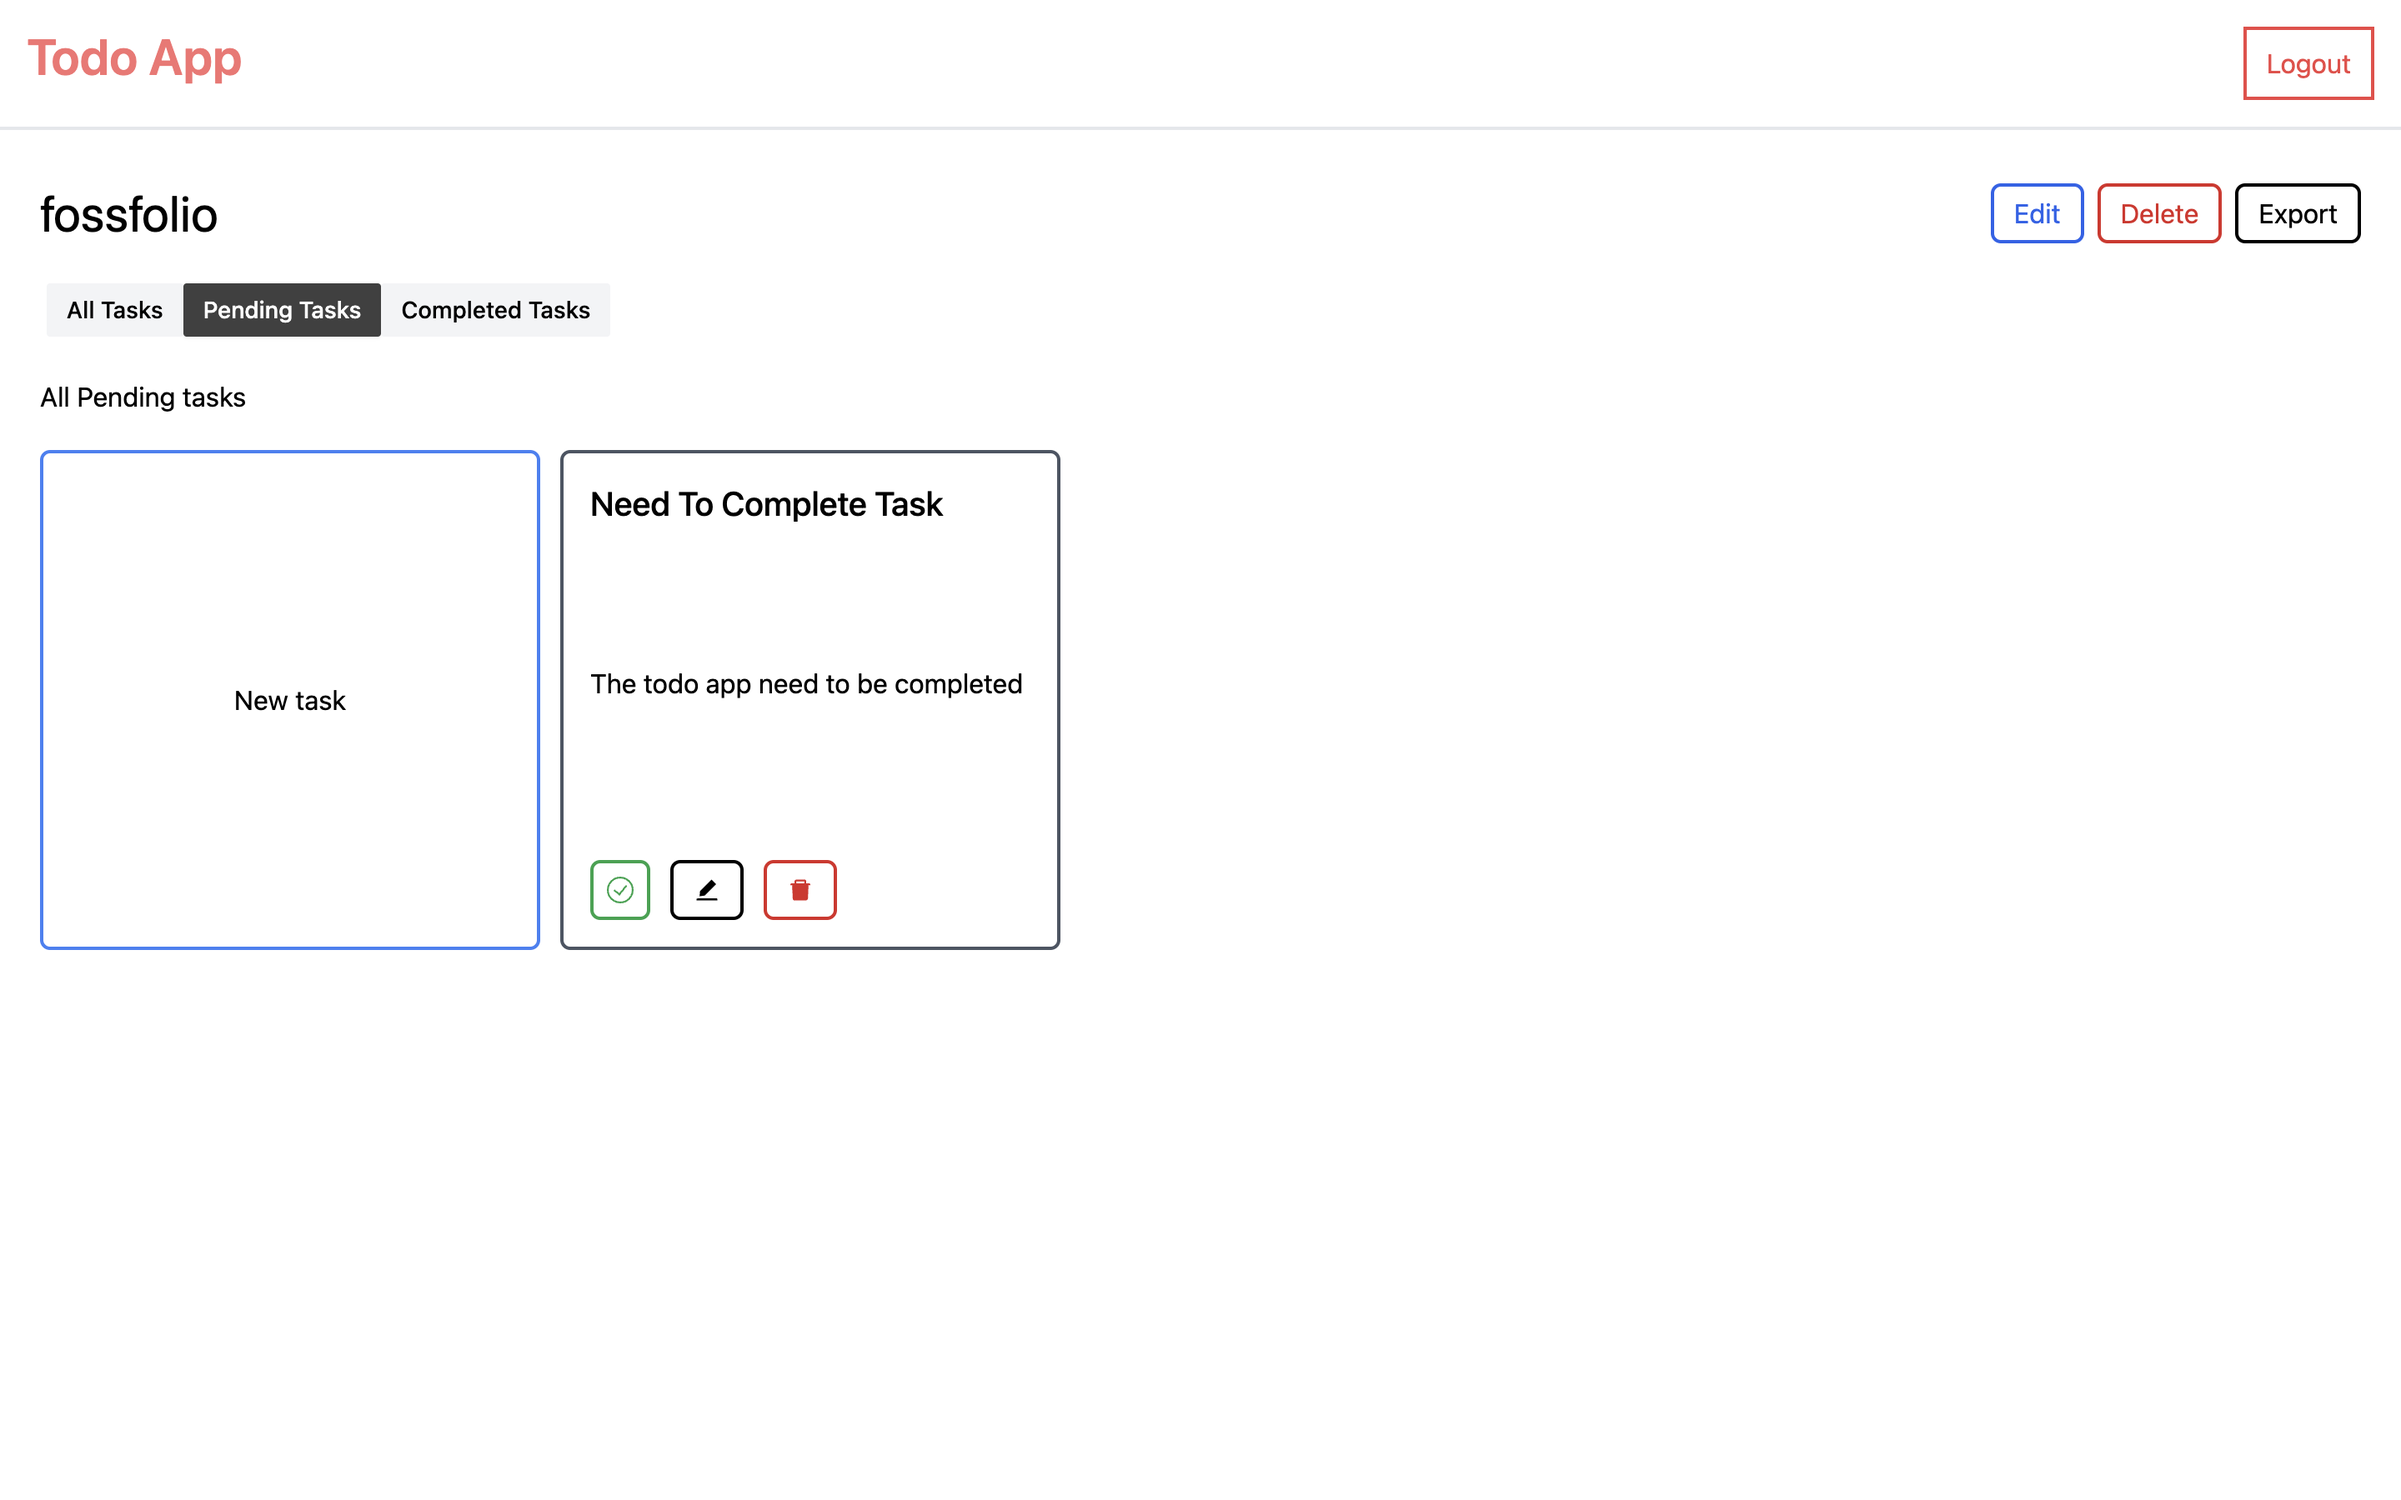
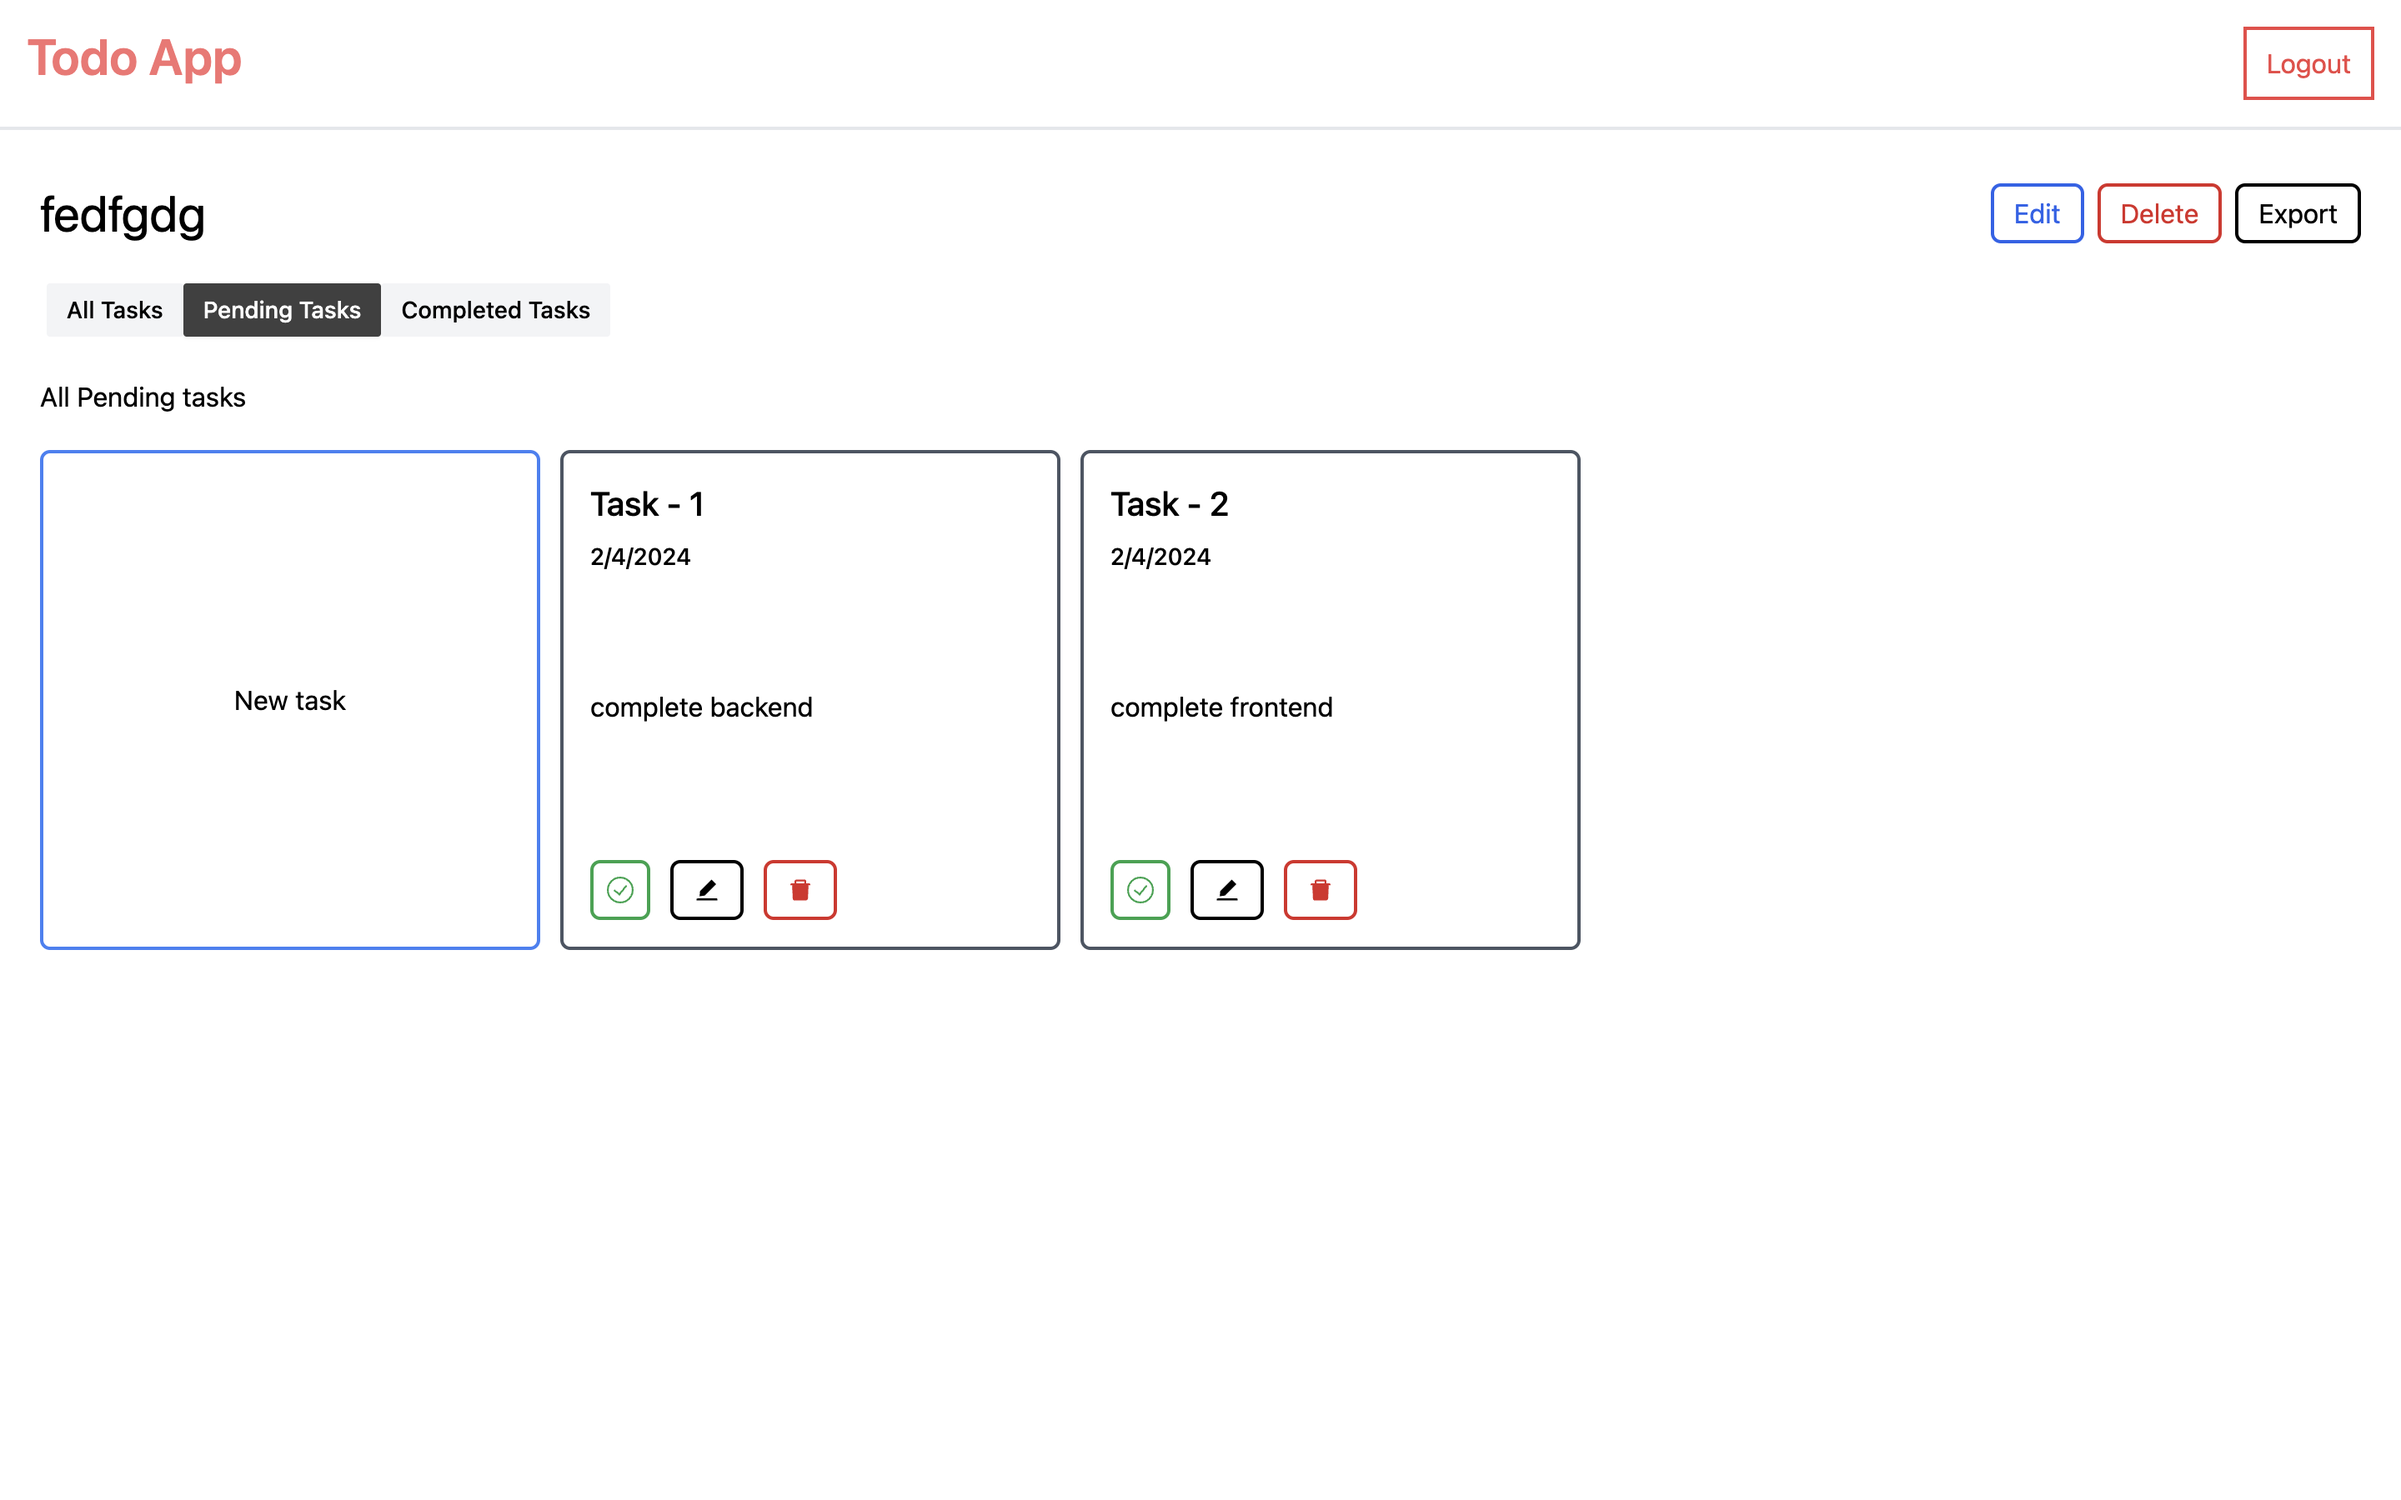
feat: added date in ui

diff --git a/client/components/Todo/Task.tsx b/client/components/Todo/Task.tsx
@@ -4,15 +4,17 @@ import { apiHandler } from "@app/config/apiHandler";
 import { useRouter } from "next/router";
 import { NewTask } from "./NewTask";
 import { useToggle } from "@app/hooks/useToggle";
+import { useMemo } from "react";
 
 interface Prop {
   title: string;
   description: string;
   id: string;
   getTodo: () => Promise<void>;
+  date: Date;
 }
 
-export const Task = ({ id, title, description, getTodo }: Prop) => {
+export const Task = ({ id, title, description, getTodo, date }: Prop) => {
   const router = useRouter();
   const [isOpen, toggleOpen] = useToggle();
   const { id: projectId } = router.query;
@@ -27,6 +29,15 @@ export const Task = ({ id, title, description, getTodo }: Prop) => {
       toast.error("failed to update task");
     }
   };
+
+  const currentDate = useMemo(() => {
+    const convertedDate = new Date(date);
+    const day = convertedDate.getDay();
+    const month = convertedDate.getMonth();
+    const year = convertedDate.getFullYear();
+
+    return `${day}/${month}/${year}`;
+  }, [date]);
 
   const deleteTodo = async () => {
     try {
@@ -43,7 +54,12 @@ export const Task = ({ id, title, description, getTodo }: Prop) => {
       key={id}
       className="border-2 border-gray-600 w-[300px] h-[150px] md:h-[300px] rounded-md p-4 flex flex-col justify-between"
     >
-      <h3 className="text-xl font-medium capitalize text-start">{title}</h3>
+      <div className="flex gap-2 flex-col">
+        <h3 className="text-xl font-medium capitalize text-start">{title}</h3>
+        <h5 className="text-sm font-medium capitalize text-start">
+          {currentDate}
+        </h5>
+      </div>
       <div className="flex gap-3 overflow-y-scroll mt-2 max-h-[200px]">
         <p className="text-md">{description}</p>
       </div>

diff --git a/client/pages/[id].tsx b/client/pages/[id].tsx
@@ -142,6 +142,7 @@ const TodoPage = () => {
                     getTodo={getAllTodo}
                     id={el.id}
                     description={el.description}
+                    date={el.createdAt}
                   />
                 ))}
             </div>
@@ -168,6 +169,7 @@ const TodoPage = () => {
                     getTodo={getAllTodo}
                     id={el.id}
                     description={el.description}
+                    date={el.createdAt}
                   />
                 ))}
             </div>
@@ -194,6 +196,7 @@ const TodoPage = () => {
                     getTodo={getAllTodo}
                     id={el.id}
                     description={el.description}
+                    date={el.createdAt}
                   />
                 ))}
             </div>

diff --git a/README.md b/README.md
@@ -88,3 +88,8 @@
 
 
 <img src="./client/public/test.png" width="600px" height="300px"/>
+
+
+### Generated Gist
+
+<img src="./client/public/gist.png" width="600px" height="300px"/>
